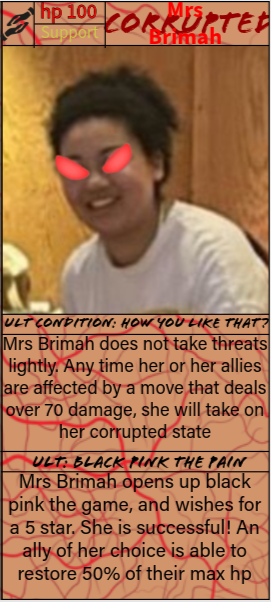
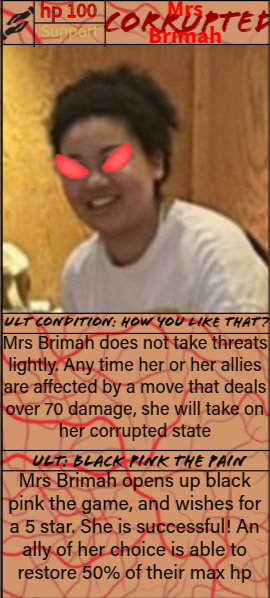
.

Changed region(s): [[0.0, 0.0, 1.0, 1.0]]

diff --git a/style.css b/style.css
@@ -444,7 +444,7 @@ h1 {
 
 .loadout-row .card {
   width: 120px;   /* updated width */
-  height: 120px;  /* updated height */
+  height: 160px;  /* updated height */
   object-fit: contain; /* keeps image proportion */
 }
 
